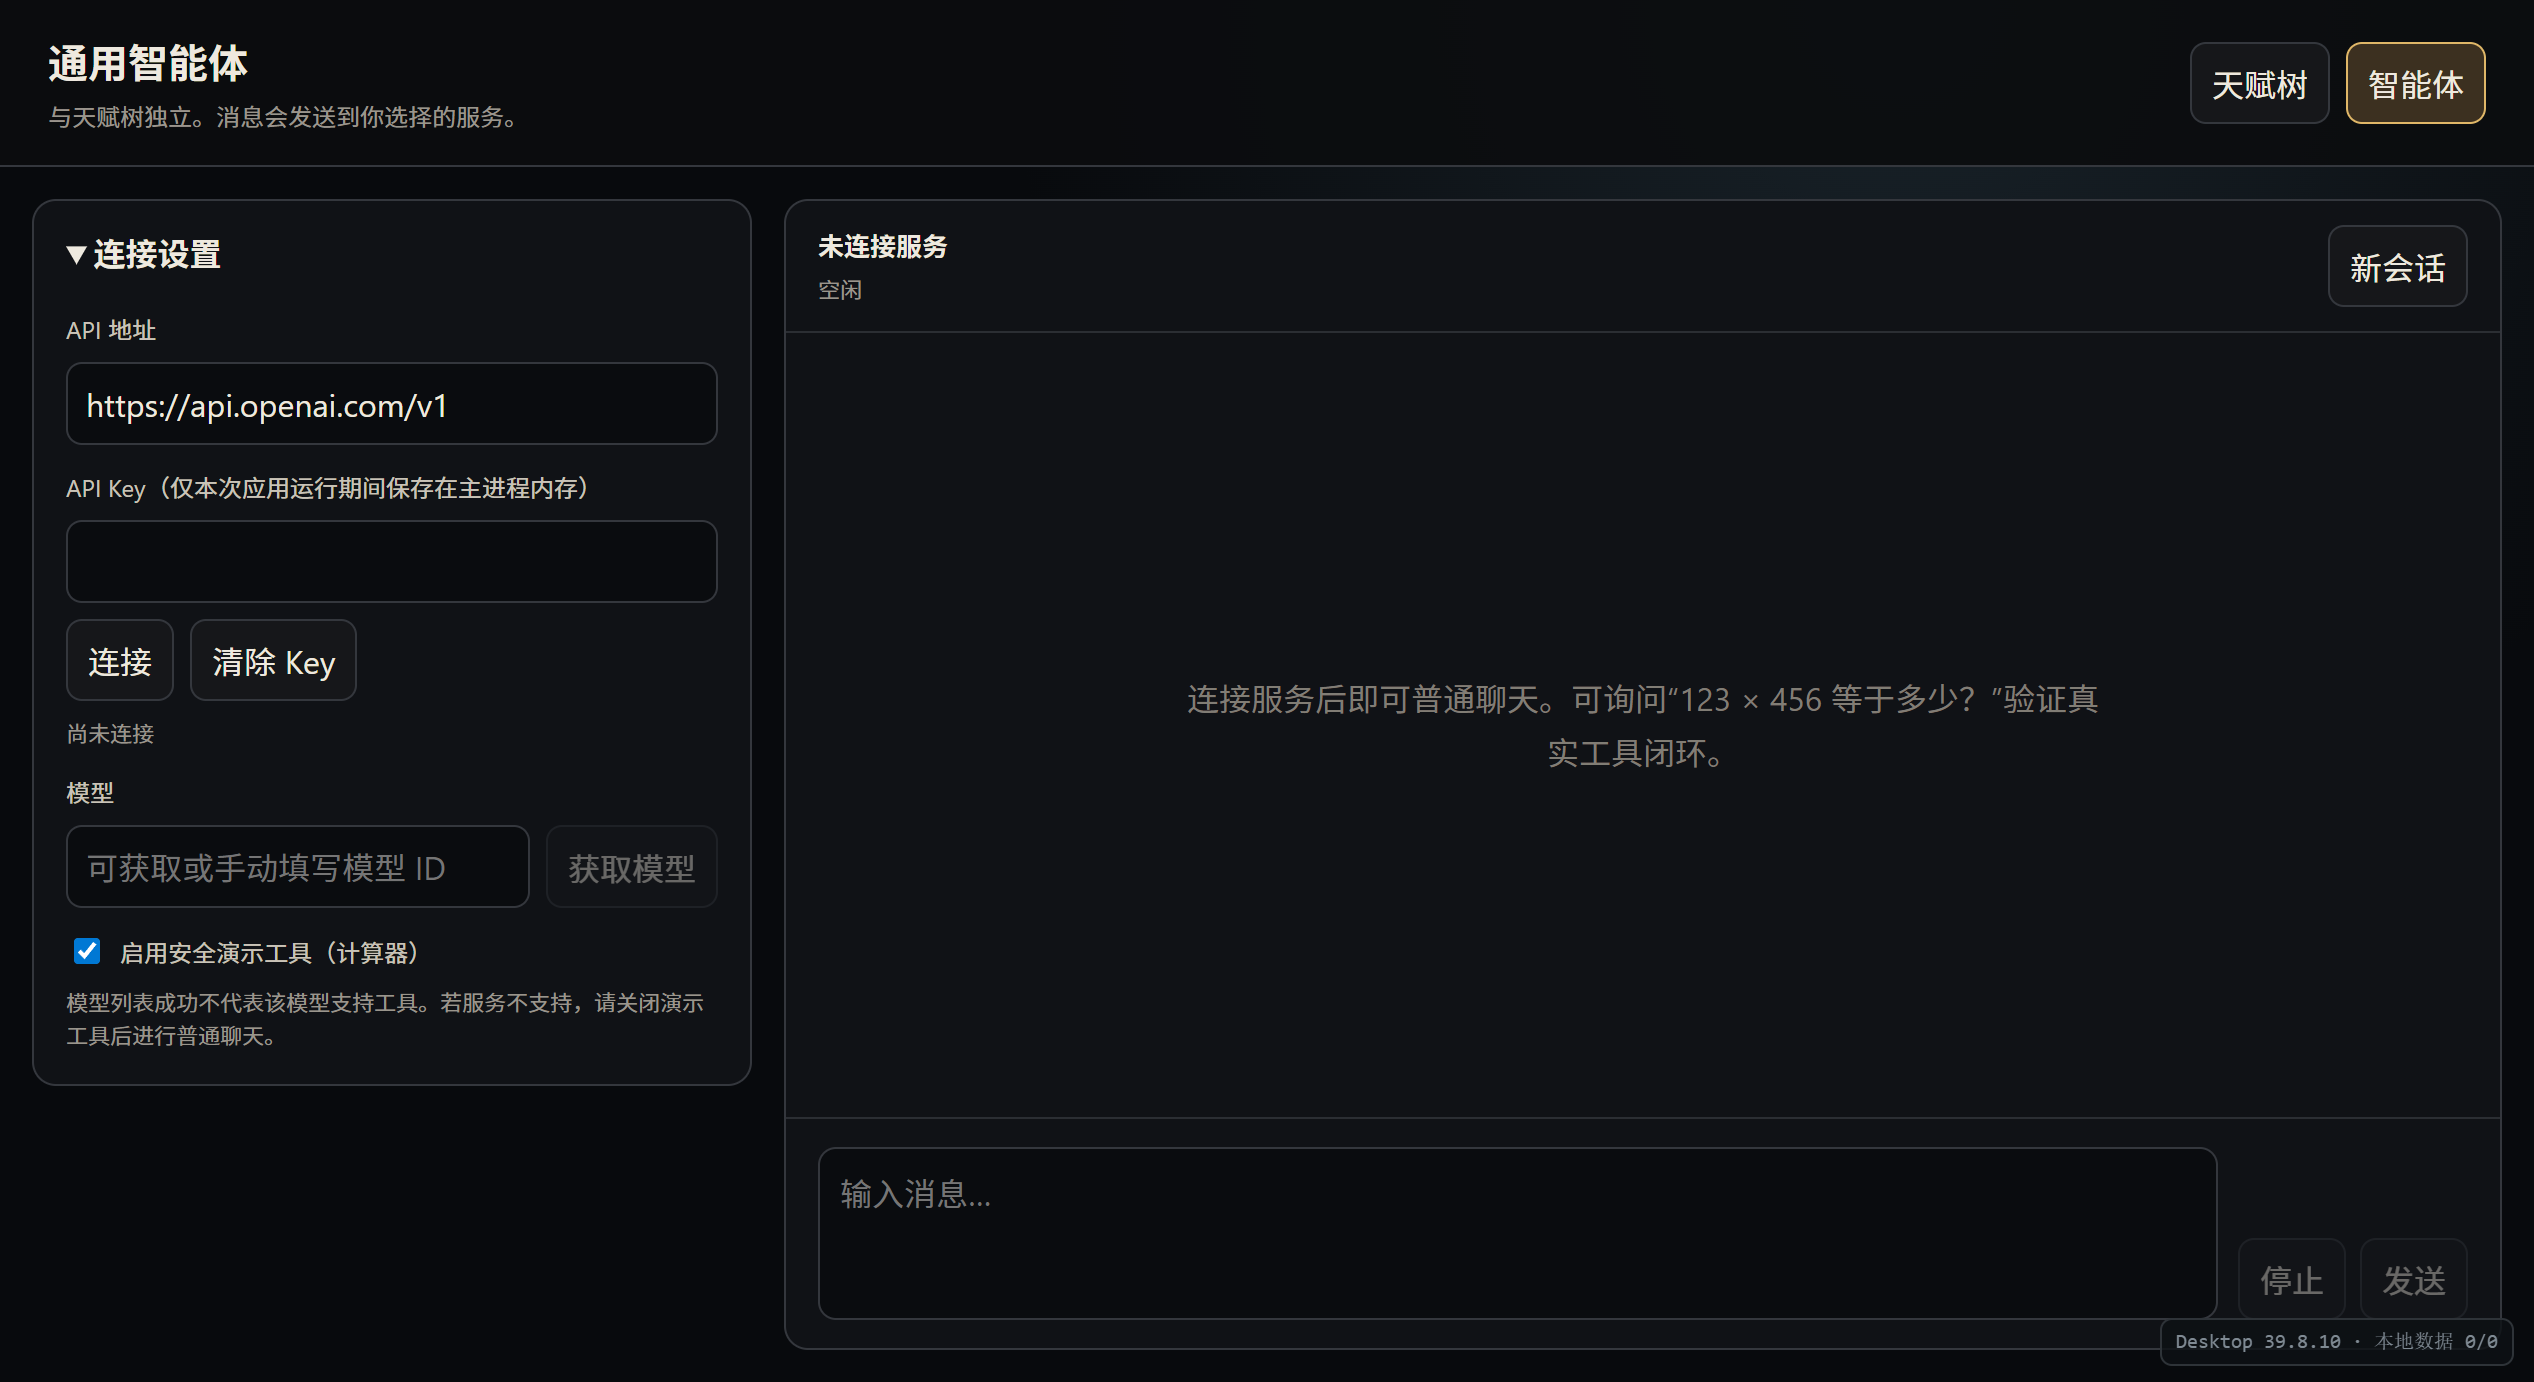
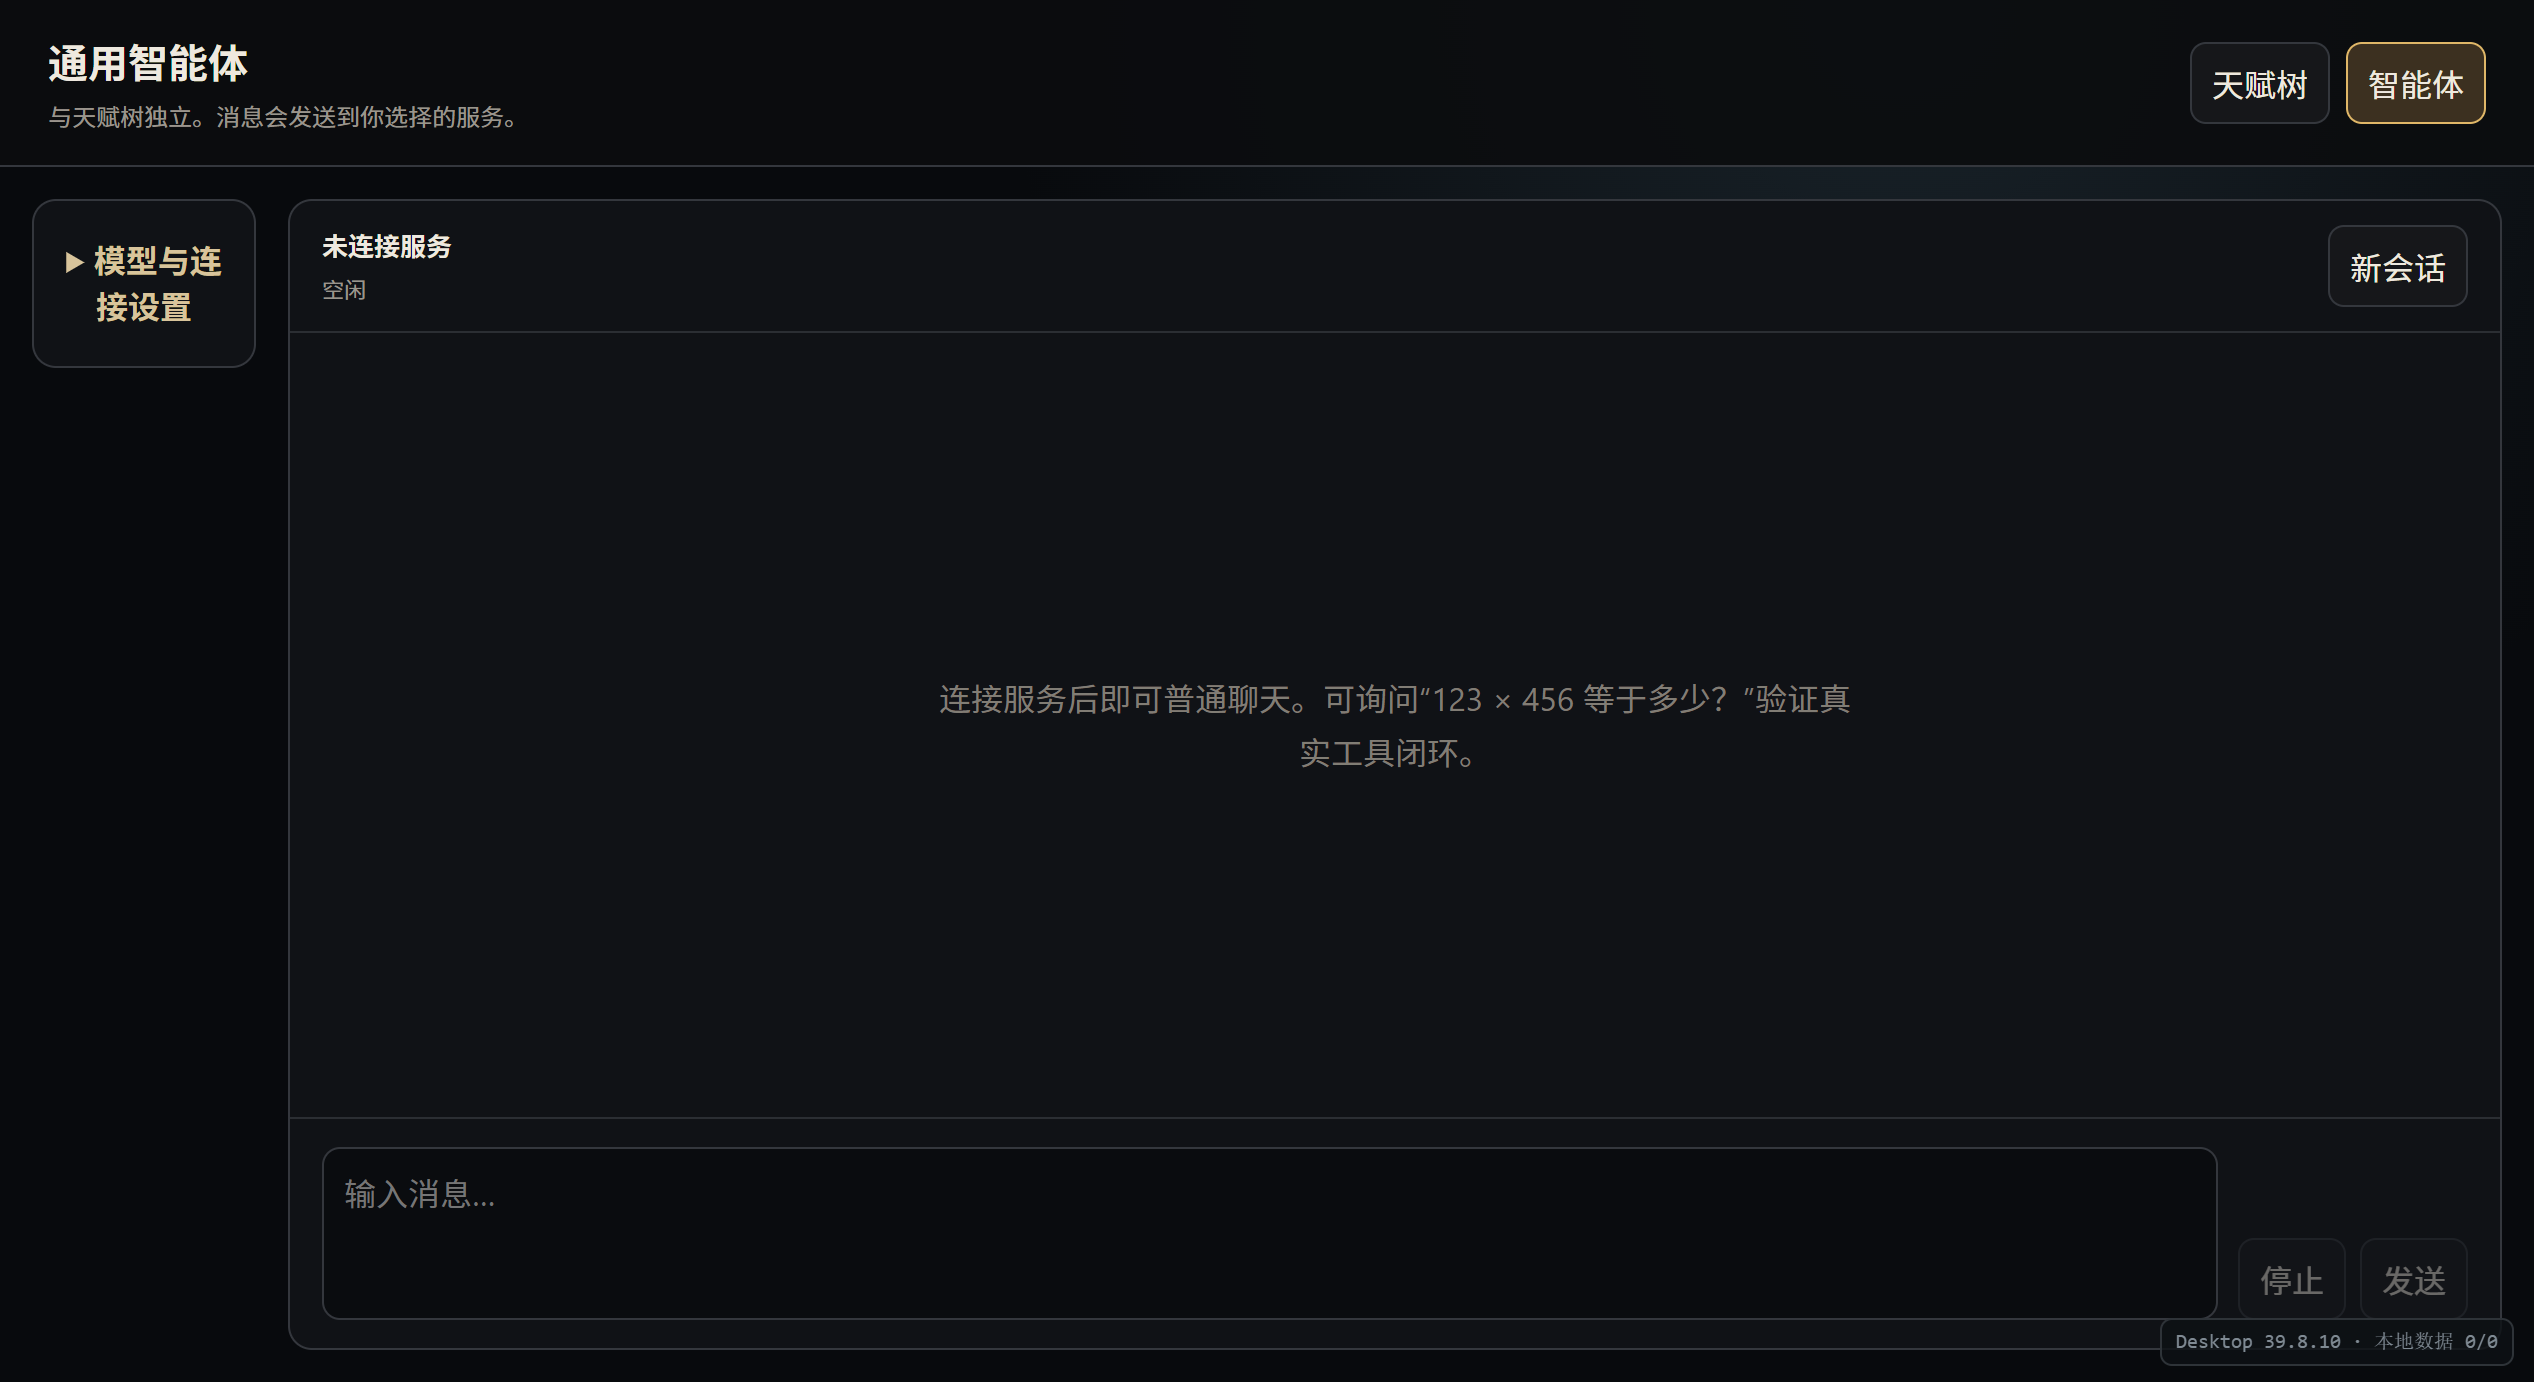
fix(agent): validate live loop and collapse settings

diff --git a/apps/planner-desktop/renderer/agent-panel.css b/apps/planner-desktop/renderer/agent-panel.css
@@ -3,11 +3,13 @@
 .agent-top{display:flex;justify-content:space-between;align-items:center;gap:20px;padding:16px 24px;border-bottom:1px solid #34373d;background:#0b0c0ee8}
 .agent-top h1{font-size:20px;margin:0}.agent-top p{font-size:12px;color:#9a958c;margin:4px 0 0}.agent-nav{display:flex;gap:8px}
 .agent-layout{min-height:0;display:grid;grid-template-columns:minmax(280px,360px) 1fr;gap:16px;padding:16px;max-width:1400px;width:100%;margin:0 auto}
+.agent-layout:has(.agent-settings:not([open])){grid-template-columns:112px 1fr}
 .agent-settings,.agent-chat{border:1px solid #34373d;border-radius:12px;background:#101216;min-height:0}.agent-settings{align-self:start}.agent-settings summary{cursor:pointer;padding:14px 16px;font-weight:700}.agent-settings-body{padding:0 16px 16px;display:grid;gap:8px}.agent-settings label{font-size:12px;color:#c8c3b8;margin-top:4px}
+.agent-settings:not([open]) summary{padding:18px 12px;text-align:center;line-height:1.45;color:#d8c49b}
 .agent-settings input[type=text],.agent-settings input[type=password]{width:100%;padding:9px;background:#0a0c0f;border:1px solid #34373d;border-radius:8px;color:#eee9df}.agent-actions,.agent-model-fetch-row{display:flex;gap:8px}.agent-model-fetch-row select{min-width:0;flex:1}.agent-model-fetch-row button{white-space:nowrap}
 .agent-status,.agent-help{font-size:11px;line-height:1.5;color:#9a958c;margin:0}.agent-status.connected{color:#86d5a0}.agent-status.error{color:#eeaaa4}.agent-toggle{display:flex;align-items:center;gap:7px}
 .agent-settings .agent-manual-label{margin-top:5px;color:#d8c49b}.agent-settings .agent-manual-model{border-color:#6d5a39;background:#12100c}.agent-model-status{min-height:34px;padding:7px 9px;border:1px solid #30343b;border-radius:7px;background:#0b0d10}.agent-model-status.error{border-color:#784147;background:#281416}.agent-model-status.connected{border-color:#376149;background:#102018}
 .agent-chat{display:grid;grid-template-rows:auto 1fr auto auto;overflow:hidden}.agent-chat-head{display:flex;justify-content:space-between;align-items:center;padding:12px 16px;border-bottom:1px solid #2b2e33}.agent-chat-head b{display:block;font-size:13px}.agent-chat-head span{font-size:11px;color:#9a958c}
 .agent-messages{min-height:260px;overflow:auto;padding:18px;display:flex;flex-direction:column;gap:12px}.agent-empty{margin:auto;color:#817d75;text-align:center;max-width:460px;line-height:1.7}.agent-message{max-width:min(760px,85%);padding:10px 12px;border-radius:12px;white-space:pre-wrap;overflow-wrap:anywhere;line-height:1.55;font-size:14px}.agent-message.user{align-self:flex-end;background:#3c3020;border:1px solid #6b5736}.agent-message.assistant{align-self:flex-start;background:#181b20;border:1px solid #343a43}.agent-message.error{align-self:center;background:#281416;border:1px solid #784147;color:#f0b6b6}
 .agent-tool-log{margin:0 18px 10px;padding:10px 12px;border:1px solid #315363;border-radius:9px;background:#0c171d;font-size:11px;color:#a8cfde;max-height:120px;overflow:auto;white-space:pre-wrap}.agent-composer{display:grid;grid-template-columns:1fr auto;gap:10px;padding:14px 16px;border-top:1px solid #2b2e33}.agent-composer textarea{resize:none;padding:10px;background:#0a0c0f;border:1px solid #34373d;border-radius:9px;color:#eee9df;font:inherit}.agent-composer>div{display:flex;align-items:flex-end;gap:7px}
-@media(max-width:820px){.agent-layout{grid-template-columns:1fr;overflow:auto}.agent-view{overflow:auto}.agent-chat{min-height:600px}}
+@media(max-width:820px){.agent-layout,.agent-layout:has(.agent-settings:not([open])){grid-template-columns:1fr;overflow:auto}.agent-view{overflow:auto}.agent-chat{min-height:600px}}

diff --git a/apps/planner-desktop/renderer/index.html b/apps/planner-desktop/renderer/index.html
@@ -293,8 +293,8 @@ border-radius:6px;padding:5px 7px;pointer-events:none">Desktop bridge…</div>
     </nav>
   </header>
   <div class="agent-layout">
-    <details class="agent-settings" open>
-      <summary>连接设置</summary>
+    <details class="agent-settings">
+      <summary>模型与连接设置</summary>
       <div class="agent-settings-body">
         <label for="agentBaseUrl">API 地址</label>
         <input id="agentBaseUrl" type="text" value="https://api.openai.com/v1" autocomplete="url" spellcheck="false">

diff --git a/docs/AGENT_FRAMEWORK.md b/docs/AGENT_FRAMEWORK.md
@@ -49,3 +49,7 @@ npm start
 Open **智能体**, enter the service URL and key locally, connect, fetch or manually type a model, then send a message. No real-service claim is made without a user-supplied key. Automated tests use explicit mock providers and HTTP responses.
 
 The no-secret preview is stored at `docs/assets/screenshots/agent-mvp.png`. It is captured while Planner data is unavailable to verify that the Agent view is not gated by tree initialization.
+
+### Live compatibility acceptance (2026-09-19)
+
+A user-authorized, low-limit third-party OpenAI-compatible relay was tested without persisting its key. `GET /v1/models` returned three selectable models. `deepseek-v4-flash` completed ordinary Chinese chat and the full two-request calculator loop (`123 × 456 = 56088`) with the exact tool call ID preserved. One advertised model returned HTTP 402 and another returned an empty HTTP-200 message for ordinary chat / truncated text after a tool result; these are now surfaced as provider failures rather than presented as successful empty replies. This evidence validates the application loop and also demonstrates why listing a model cannot be treated as a capability guarantee.
